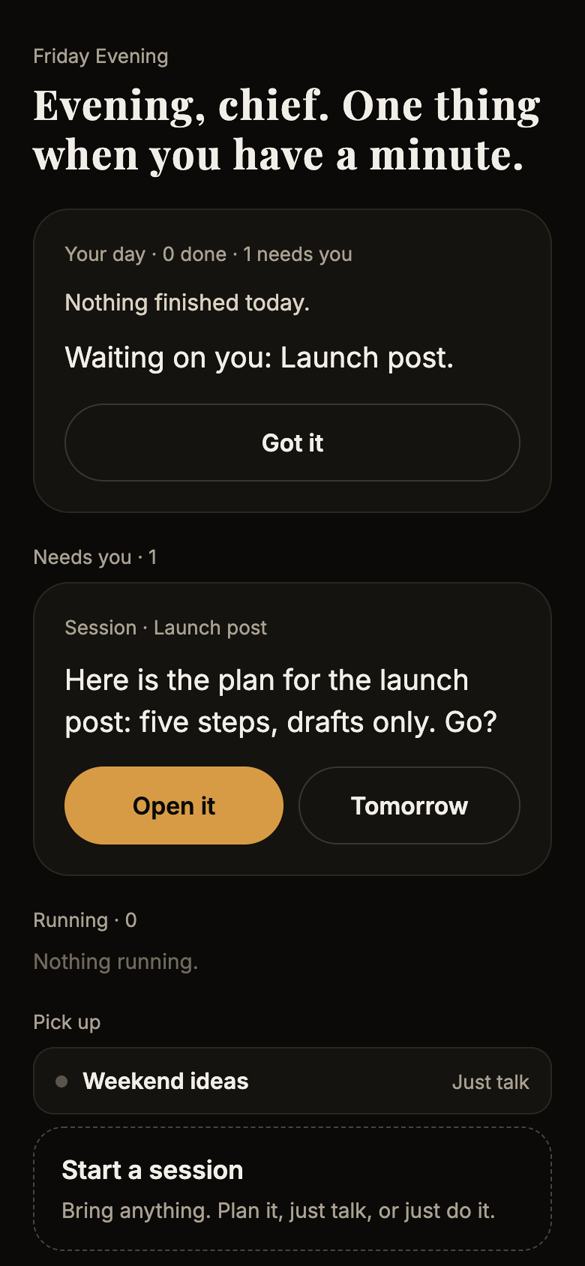
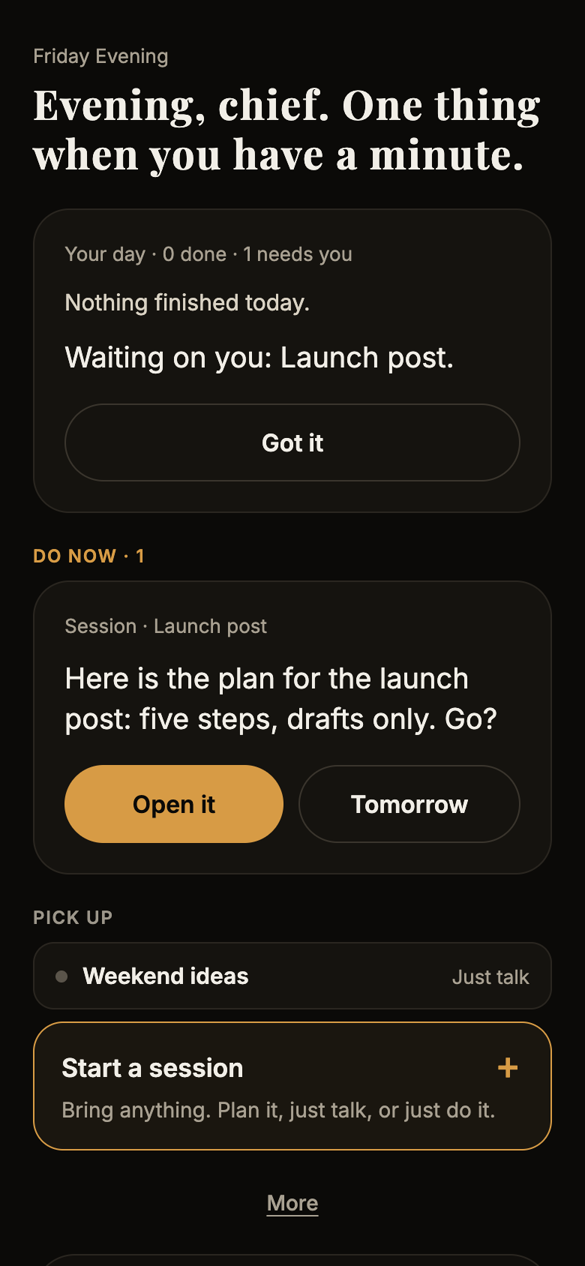
0.1.8: the new Home; screenshots retaken

diff --git a/plugin/app/src/live/CalmHome.tsx b/plugin/app/src/live/CalmHome.tsx
@@ -75,6 +75,7 @@ export function CalmHome({ threads, tasks, home, onPack, onHistory, onToast, ref
   const [chat, setChat] = useState(false)
   // Carl, 2026-10-29: "Start first". The session loop is the main thing; the rest waits behind More
   const [more, setMore] = useState(false)
+  const [later, setLater] = useState(false) // the rest of Pick up, folded (the mock's "Later · N")
   // sessions worth hopping into, from real things only (what came next, what stopped short, new uploads, goal tasks)
   const [ideas, setIdeas] = useState<SessionIdea[]>([])
   useEffect(() => { loadSessionIdeas().then(setIdeas, () => {}) }, [threads.filter(isSession).length])
@@ -118,9 +119,10 @@ export function CalmHome({ threads, tasks, home, onPack, onHistory, onToast, ref
       <Evening onOpen={t => reopen(t)} onView={onView} />
       {settled && <div className="calm-done" role="status"><span aria-hidden="true">✓</span>{settled}</div>}
       {/* Home in three lists, always in this order (audit fix 1, 2026-10-30): what needs Carl, what's running, what he can pick up */}
-      <section className="home-list" aria-label="Needs you">
-        <span className="calm-from">Needs you · {items.length}</span>
-        {!focus && <p className="home-empty">Nothing. You're clear.</p>}
+      {/* grouped by what Carl does next (the focus mock, 2026-10-30): do now, running, pick up; an empty group says nothing */}
+      {!items.length && !running.length && <p className="home-clear"><span aria-hidden="true">✓</span>Nothing needs you, and nothing is running.</p>}
+      {items.length > 0 && <section className="home-list" aria-label="Do now">
+        <span className="home-label do">Do now · {items.length}</span>
         {focus && (focus.key.startsWith('s') ? (
           <article className="calm-card">
             <span className="calm-from">Session · {focus.who}</span>
@@ -133,19 +135,18 @@ export function CalmHome({ threads, tasks, home, onPack, onHistory, onToast, ref
             <i className="home-dot need" aria-hidden="true" /><b>{i.who}</b><span className="muted">waiting {ago(i.at)}</span>
           </button>
         ))}
-      </section>
-      <section className="home-list" aria-label="Running">
-        <span className="calm-from">Running · {running.length}</span>
-        {!running.length && <p className="home-empty">Nothing running.</p>}
+      </section>}
+      {running.length > 0 && <section className="home-list" aria-label="Running">
+        <span className="home-label">Running · {running.length} · nothing to do</span>
         {running.map(t => (
           <button key={t.port} className="home-row" onClick={() => isSession(t) ? setSess(t.port) : setChat(t.home ?? false)} disabled={!isSession(t) && !t.home}>
             <i className="home-dot live" aria-hidden="true" /><b>{isSession(t) ? sessionTitle(t) : t.home ? 'Goddard' : dogName(t) ?? 'A dog'}</b>
             <span className="muted">{t.auto ? `Auto · ${Math.max(0, Math.round((t.auto.until - Date.now()) / 60000))} min left` : cut(plain(t.doing || 'working'), 40)}</span>
           </button>
         ))}
-      </section>
+      </section>}
       <section className="home-list calm-sessions" aria-label="Pick up">
-        <span className="calm-from">Pick up</span>
+        <span className="home-label">Pick up</span>
         {/* half-done work first, then what comes next after finished work */}
         {pickup.map(t => (
           <button key={t.port} className="home-row" onClick={() => setSess(t.port)}>
@@ -153,12 +154,22 @@ export function CalmHome({ threads, tasks, home, onPack, onHistory, onToast, ref
             <span className="muted">{(t.sessionMode ?? 'plan') !== 'plan' ? `${modeLabel(t.sessionMode)}${t.busy ? ' · working' : ''}` : t.board ? `phase ${t.board.now + 1} of ${t.board.phases.length}` : 'no plan yet'}</span>
           </button>
         ))}
-        {ideas.filter(i => !/\btest\b/i.test(i.title)).sort((a, b) => Number(b.from === 'unfinished') - Number(a.from === 'unfinished')).slice(0, Math.max(0, 3 - pickup.length)).map(i => (
-          <button key={i.from + i.title} className="calm-idea" disabled={reopening === i.reopen && !!i.reopen} onClick={() => i.reopen ? reopen(i.reopen) : (setCarry({ brought: i.brought, want: i.want, title: i.title.replace(/^(Next for|Finish) /, '').slice(0, 26) }), setSess('new'))}>
-            <b>{i.title}</b><span>{i.why}</span>
-          </button>
-        ))}
-        <button className="calm-start" onClick={() => { setCarry(undefined); setSess('new') }}><b>Start a session</b><span>Bring anything. Plan it, just talk, or just do it.</span></button>
+        {(() => {
+          // test runs and one-word starts ("Hi") aren't work to pick up
+          const real = ideas.filter(i => !/\btest\b/i.test(i.title) && i.title.replace(/^(Next for|Finish) /, '').trim().length > 3)
+            .sort((a, b) => Number(b.from === 'unfinished') - Number(a.from === 'unfinished'))
+          const room = Math.max(0, 2 - pickup.length), shown = later ? real : real.slice(0, room), rest = real.length - room
+          return <>
+            {shown.map(i => (
+              <button key={i.from + i.title} className="calm-idea" disabled={reopening === i.reopen && !!i.reopen} onClick={() => i.reopen ? reopen(i.reopen) : (setCarry({ brought: i.brought, want: i.want, title: i.title.replace(/^(Next for|Finish) /, '').slice(0, 26) }), setSess('new'))}>
+                <span className={'calm-idea-kind ' + i.from}>{i.from === 'unfinished' ? 'Unfinished' : i.from === 'carry-on' ? 'Next step' : i.from === 'upload' ? 'You added this' : 'From your goals'}</span>
+                <b>{i.title.replace(/^(Next for|Finish) /, '')}</b><span>{i.why}</span>
+              </button>
+            ))}
+            {rest > 0 && !later && <button className="home-later" onClick={() => setLater(true)}>Later · {rest} more <span aria-hidden="true">▸</span></button>}
+          </>
+        })()}
+        <button className="calm-start" onClick={() => { setCarry(undefined); setSess('new') }}><b>Start a session <span aria-hidden="true">＋</span></b><span>Bring anything. Plan it, just talk, or just do it.</span></button>
       </section>
       <button className="calm-quiet calm-morebtn" aria-expanded={more} onClick={() => setMore(m => !m)}>{more ? 'Less' : 'More'}</button>
       {more && <div className="calm-extra">

diff --git a/plugin/app/src/index.css b/plugin/app/src/index.css
@@ -1021,3 +1021,29 @@ span.scv-p { cursor: default }
 .scv-trail li span { color: #8FBF7A }
 .scv-trail li:first-child { color: #F1EEE7 }
 @media (prefers-reduced-motion: reduce) { .scv-frame, .scv-hud, .scv-rail > *, .scv-trail li, .scv-scan, .scv-now i.scv-spin { animation: none } .scv-hud, .scv-rail { transition: none } }
+
+/* Home, grouped by what you do next, in motion (2026-10-30) */
+.home-label { font-size: 12px; font-weight: 700; letter-spacing: .07em; text-transform: uppercase; color: #9C968A }
+.home-label.do { color: #D79B45 }
+.home-clear { display: flex; align-items: center; gap: 10px; margin: 0; padding: 14px 16px; border-radius: 16px; background: #12110D; border: 1px solid #221F19; color: #B9B2A4; font-size: 15px }
+.home-clear span { color: #8FBF7A; font-weight: 700 }
+.calm-idea { gap: 4px; padding: 14px 16px; border: 1px solid #2A2620; background: #12110D; transition: transform .25s cubic-bezier(.2,.8,.2,1), border-color .25s, background .25s }
+.calm-idea:hover { transform: translateX(4px); border-color: #4A4337; background: #15130F }
+.calm-idea:active, .calm-start:active, .home-row:active { transform: scale(.98) }
+.calm-idea-kind { align-self: flex-start; padding: 2px 8px; border-radius: 99px; font-size: 11px !important; font-weight: 700; letter-spacing: .04em; text-transform: uppercase; color: #D79B45 !important; background: #2A2216; -webkit-line-clamp: unset !important }
+.calm-idea-kind.carry-on { color: #8FBF7A !important; background: #1C2618 }
+.calm-idea-kind.upload, .calm-idea-kind.goals { color: #CFC8BA !important; background: #221F19 }
+.home-later { display: flex; justify-content: space-between; align-items: center; min-height: 44px; padding: 0 16px; border-radius: 14px; border: 1px solid #221F19; background: transparent; color: #B9B2A4; font: 500 14px Inter, system-ui, sans-serif; cursor: pointer; transition: border-color .25s, color .25s }
+.home-later:hover { border-color: #4A4337; color: #F1EEE7 }
+.calm-start { border: 1.5px solid #D79B45; background: #1A160F; transition: transform .25s cubic-bezier(.2,.8,.2,1), background .25s }
+.calm-start b { display: flex; justify-content: space-between; align-items: center }
+.calm-start b span { color: #D79B45; font-size: 20px }
+.calm-start:hover { background: #211B12 }
+.home-row { transition: transform .25s cubic-bezier(.2,.8,.2,1) }
+@keyframes homeRise { from { opacity: 0; transform: translateY(18px); filter: blur(4px) } to { opacity: 1; transform: none; filter: none } }
+.calm > * { animation: homeRise .6s cubic-bezier(.2,.8,.2,1) backwards }
+.calm > :nth-child(2) { animation-delay: .07s } .calm > :nth-child(3) { animation-delay: .14s } .calm > :nth-child(4) { animation-delay: .21s }
+.calm > :nth-child(5) { animation-delay: .28s } .calm > :nth-child(n+6) { animation-delay: .35s }
+.calm-sessions > * { animation: homeRise .5s cubic-bezier(.2,.8,.2,1) backwards }
+.calm-sessions > :nth-child(2) { animation-delay: .3s } .calm-sessions > :nth-child(3) { animation-delay: .38s } .calm-sessions > :nth-child(4) { animation-delay: .46s } .calm-sessions > :nth-child(n+5) { animation-delay: .54s }
+@media (prefers-reduced-motion: reduce) { .calm > *, .calm-sessions > * { animation: none } .calm-idea, .calm-start, .home-row, .home-later { transition: none } }
